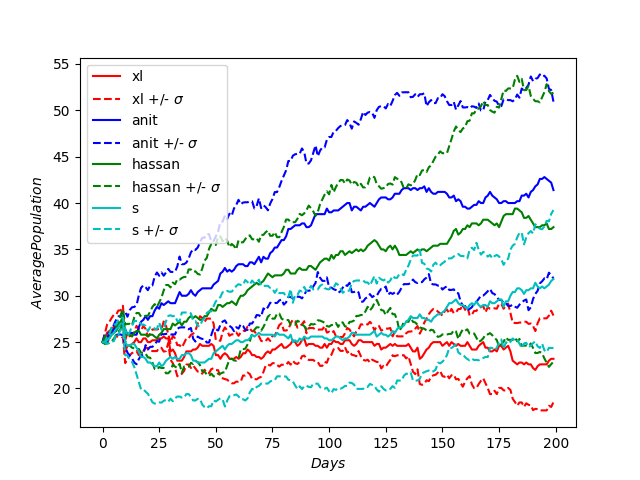
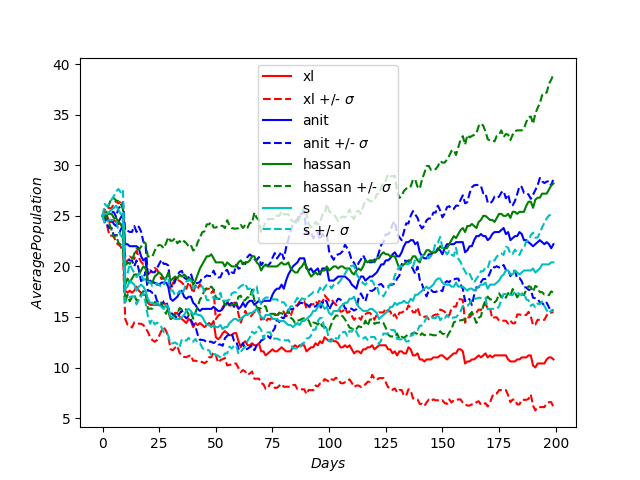
Fee hurt profit open channels, private nodes

diff --git a/src/attachment_strategies.py b/src/attachment_strategies.py
@@ -4,14 +4,18 @@ import rebalancing_strategies
 import numpy
 
 
-def create_channel(node, destination):
+def create_channel(node, destination, public):
 
-	base, prop = price_strategies.get_price_by_strategy(node['price_strategy'], path=node["price_model"])
+	if not node["public"]:
+		base = 100000000
+		prop = 100000000
+	else:
+		base, prop = price_strategies.get_price_by_strategy(node['price_strategy'], path=node["price_model"])
 
 	return {
 		'base_fee_millisatoshi': base,
 		'satoshis': node['allocation_strategy'],
-		'public': True,
+		'public': public,
 		'destination': destination,
 		'source': node['nodeid'],
 		'fee_per_millionth': prop,
@@ -40,14 +44,14 @@ def barabasi_albert(g, n, m, env):
 			random_strategy(g, n, m, env)
 			return False
 
-		targets = [i[0] for i in random.sample(g.edges, m)]
+		targets = [i[0] for i in random.sample([k for k in g.edges if g.edges[k]["public"]], m)]
 
 		g.add_node(n["nodeid"], **n)
 
-		channels = [create_channel(n, target_id) for target_id in targets]
+		channels = [create_channel(n, target_id, n['public']) for target_id in targets]
 		g.add_edges_from(zip([n["nodeid"]] * m, targets, channels))
 
-		channels = [create_channel(g.nodes[target_id], n['nodeid']) for target_id in targets]
+		channels = [create_channel(g.nodes[target_id], n['nodeid'], n['public']) for target_id in targets]
 		g.add_edges_from(zip(targets, [n["nodeid"]] * m, channels))
 
 		for s in range(m):
@@ -61,14 +65,14 @@ def random_strategy(g, n, m, env):
 	if m >= len(g.nodes):
 		targets = g.nodes()
 	else:
-		targets = random.sample(g.nodes(), m)
+		targets = random.sample([k for k in g.nodes() if g.nodes[k]["public"]], m)
 
 	g.add_node(n["nodeid"], **n)
 
-	channels = [create_channel(n, target_id) for target_id in targets]
+	channels = [create_channel(n, target_id, n['public']) for target_id in targets]
 	g.add_edges_from(zip([n["nodeid"]] * m, targets, channels))
 
-	channels = [create_channel(g.nodes[target_id], n['nodeid']) for target_id in targets]
+	channels = [create_channel(g.nodes[target_id], n['nodeid'], n['public']) for target_id in targets]
 	g.add_edges_from(zip(targets, [n["nodeid"]] * m, channels))
 
 	for s in range(m):
@@ -83,16 +87,16 @@ def hassan_islam_haque(g, n, m, env):
 		random_strategy(g, n, m, env)
 		return False
 
-	neighbor = [i[0] for i in random.sample(g.edges, m)]
+	neighbor = [i[0] for i in random.sample([k for k in g.edges if g.edges[k]["public"]], m)]
 
 	g.add_node(n["nodeid"], **n)
 
-	targets = [random.sample(list(g.successors(nk)), 1)[0] for nk in neighbor]
+	targets = [random.sample([k for k in g.successors(nk) if g.nodes[k]["public"]], 1)[0] for nk in neighbor]
 
-	channels = [create_channel(n, target_id) for target_id in targets]
+	channels = [create_channel(n, target_id, n['public']) for target_id in targets]
 	g.add_edges_from(zip([n["nodeid"]] * m, targets, channels))
 
-	channels = [create_channel(g.nodes[target_id], n['nodeid']) for target_id in targets]
+	channels = [create_channel(g.nodes[target_id], n['nodeid'], n['public']) for target_id in targets]
 	g.add_edges_from(zip(targets, [n["nodeid"]] * m, channels))
 
 	for s in range(m):
@@ -101,25 +105,26 @@ def hassan_islam_haque(g, n, m, env):
 	return True
 
 
-def inverse_barabasi_albert(g, n, m, env):  # TODO how the fuck is this done simple without
+def inverse_barabasi_albert(g, n, m, env):
 
 	if m >= len(g.edges):
 		random_strategy(g, n, m, env)
 		return False
 
-	sum = 0
+	sum_n = 0
 	for new in g.nodes:
-		sum += 1 / len(list(g.edges(new)))
+		if g.nodes[new]["public"] and len(list(g.edges(new))) != 0:
+			sum_n += 1 / len(list(g.edges(new)))
 
-	targets = [i for i in numpy.random.choice(list(g.nodes), m,
-											p=[1/len(list(g.edges(new)))/sum for new in g.nodes])]
+	targets = [i for i in numpy.random.choice([k for k in g.nodes if g.nodes[k]["public"] and len(list(g.edges(k))) != 0], m,
+											p=[1/len(list(g.edges(new)))/sum_n for new in g.nodes if g.nodes[new]["public"] and len(list(g.edges(new))) != 0])]
 
 	g.add_node(n["nodeid"], **n)
 
-	channels = [create_channel(n, target_id) for target_id in targets]
+	channels = [create_channel(n, target_id, n['public']) for target_id in targets]
 	g.add_edges_from(zip([n["nodeid"]] * m, targets, channels))
 
-	channels = [create_channel(g.nodes[target_id], n['nodeid']) for target_id in targets]
+	channels = [create_channel(g.nodes[target_id], n['nodeid'], n['public']) for target_id in targets]
 	g.add_edges_from(zip(targets, [n["nodeid"]] * m, channels))
 
 	for s in range(m):
@@ -147,7 +152,7 @@ def close_channel(g, f, s):
 	return True
 
 
-def manage_channels(g, env):
+def manage_channels(g, env, day):
 	"""
 	Add different strategies here.
 	First only close and open
@@ -172,8 +177,14 @@ def manage_channels(g, env):
 	for n in g.nodes:
 		while g.nodes[n]["funding"] > (2*env['environment']['fee'] + g.nodes[n]["allocation_strategy"]):
 			switch(g.nodes[n]['attachment_strategy'])(g, g.nodes[n], 1, env)
+			remove_profit(g, n, 2*env['environment']['fee'], day)
 
 	return True
+
+
+def remove_profit(g, node, fee, day):
+	g.nodes[node]['profits'][day % 10] -= fee
+	g.nodes[node]['total_profits'] -= fee
 
 
 def switch(policy):

diff --git a/src/simulation.py b/src/simulation.py
@@ -15,7 +15,7 @@ import routing
 from collections import OrderedDict
 
 
-def create_node(settings, immunity):
+def create_node(settings, immunity, public=True):
 	rand_id = '%066x' % random.randrange(16 ** 66)
 
 	profit = [settings["funding_strategy"] for n in range(immunity)]
@@ -47,7 +47,8 @@ def create_node(settings, immunity):
 		"base_fee": random.randint(10, 1501),
 		"fee_per_millionth": random.randint(1, 100),
 		"funding": settings["funding_strategy"],
-		"original_funding": settings["funding_strategy"]
+		"original_funding": settings["funding_strategy"],
+		"public": public
 	}
 
 
@@ -88,7 +89,7 @@ def simulate(env):
 
 		network_probability_node_creation(g, env)
 		check_for_bankruptcy(g, env)
-		attachment.manage_channels(g, env)
+		attachment.manage_channels(g, env, day)
 		rebalance.rebalance_channels(g, day)
 
 	print_profit_table(g, env)
@@ -120,13 +121,19 @@ def build_environment(env, g):
 			attachment.attach(g, selected, 5, env)
 			nodes.remove(selected)
 
+	for n in env['private_nodes']:
+		for i in range(int(env['environment']['initial_nodes'] * n['initial_distribution'])):
+			node = create_node(n, env['environment']['immunity_period'], public=False)
+			attachment.attach(g, node, 5, env)
+
 	return True
 
 
 def add_survival_history(g, history, day):
 
 	for n in g.nodes:
-		history[g.nodes[n]['name']][day] += 1
+		if g.nodes[n]["public"]:
+			history[g.nodes[n]['name']][day] += 1
 
 
 def route_payments_all_to_all(g, day):
@@ -202,16 +209,34 @@ def network_probability_node_creation(g, env):
 	for node in env["routing_nodes"]:
 		nodes[node["name"]] = 0
 
+	private = OrderedDict()
+	for node in env["private_nodes"]:
+		private[node["name"]] = 0
+
+	public_nodes = 0
 	for n in g.nodes:
-		nodes[g.nodes[n]['name']] += 1
+		if g.nodes[n]["public"]:
+			nodes[g.nodes[n]['name']] += 1
+			public_nodes += 1
+		else:
+			private[g.nodes[n]['name']] += 1
 
 	for node in env["routing_nodes"]:
-		nodes[node["name"]] = nodes[node["name"]] / len(g.nodes)
+		nodes[node["name"]] = nodes[node["name"]] / public_nodes
 
 	settings = numpy.random.choice(env["routing_nodes"],  # Verify this works
 								p=list(nodes.values()))
+
 	node = create_node(settings, env["environment"]["immunity_period"])
 	attachment.attach(g, node, 5, env)
+
+	for n in range(env["environment"]["changed_private_per_step"]):
+		node = create_node(numpy.random.choice(env["private_nodes"], p=[k["initial_distribution"] for k in env["private_nodes"]]), env['environment']['immunity_period'], public=False)
+		attachment.attach(g, node, 5, env)
+
+	rm = numpy.random.choice(g.nodes, env["environment"]["changed_private_per_step"], replace=False)
+	for r in rm:
+		g.remove_node(r)  # TODO NEED PAY BACK CHANNELS
 
 
 def reset_day(g, day):
@@ -224,18 +249,18 @@ def check_for_bankruptcy(g, env):
 	remove = []
 
 	for node in g.nodes:
-
-		if sum(g.nodes[node]['profits']) < g.nodes[node]['original_funding'] / 2 + g.nodes[node]['original_funding'] \
-				* env["environment"]["risk_premium"] / 36.5 + \
-				g.nodes[node]['original_funding'] * env["environment"]["risk_premium"] / 36.5 + \
-				env["environment"]["operational_cost"] / 36.5:
-			print(g.nodes[node]['nodeid'][:10], " bankrupt with strategies: ",
-				g.nodes[node]['name'])
-			remove.append(node)
-			changed = True
+		if g.nodes[node]["public"]:
+			if sum(g.nodes[node]['profits']) < g.nodes[node]['original_funding'] / 2 + g.nodes[node]['original_funding'] \
+					* env["environment"]["risk_premium"] / 36.5 + \
+					g.nodes[node]['original_funding'] * env["environment"]["risk_premium"] / 36.5 + \
+					env["environment"]["operational_cost"] / 36.5:
+				print(g.nodes[node]['nodeid'][:10], " bankrupt with strategies: ",
+					g.nodes[node]['name'])
+				remove.append(node)
+				changed = True
 	if changed:
 		for n in remove:
-			g.remove_node(n)
+			g.remove_node(n)  # TODO NEED PAY BACK CHANNELS
 
 
 def print_alive_nodes(g, env):
@@ -244,7 +269,8 @@ def print_alive_nodes(g, env):
 		nodes[node["name"]] = 0
 
 	for n in g.nodes:
-		nodes[g.nodes[n]['name']] += 1
+		if g.nodes[n]["public"]:
+			nodes[g.nodes[n]['name']] += 1
 
 	s = ""
 	for key in nodes:
@@ -256,7 +282,8 @@ def print_alive_nodes(g, env):
 def print_profit_table(g, env):
 	sorted_profit = []
 	for n in g.nodes:
-		sorted_profit.append(g.nodes[n])
+		if g.nodes[n]["public"]:
+			sorted_profit.append(g.nodes[n])
 
 	sorted_profit = sorted(sorted_profit, key=lambda k: k['total_profits'])
 
@@ -265,8 +292,8 @@ def print_profit_table(g, env):
 		nodes[node["name"]] = 0
 
 	for n in sorted_profit:
-		print(n['name'], " ", n['total_profits'])
-		nodes[n['name']] += n['total_profits']
+			print(n['name'], " ", n['total_profits'])
+			nodes[n['name']] += n['total_profits']
 
 	s = ""
 	for key in nodes:

diff --git a/src/rebalancing_strategies.py b/src/rebalancing_strategies.py
@@ -5,11 +5,8 @@ import simulation
 
 def rebalance_channels(g, day):
 	"""
-	Add different strategies here.
-	First only close and open
+	Rebalance channels by finding a cycle route to oneself.
 	"""
-	# Channel close
-	close = []
 
 	for n in g.nodes:
 		if g.nodes[n]["rebalance_strategy"]["name"] == "sanity_check":
@@ -25,15 +22,24 @@ def rebalance_channels(g, day):
 				else:
 					score, size = get_edge_bias_value(g, cycle, cap, g.nodes[n]["rebalance_strategy"]["scale"])
 
+				if score <= 0:
+					continue
+
 				fee = get_fee(g, cycle, size)
-				print((size * 2 / fee))
+
 				if (size * 2 / fee) > g.nodes[n]["rebalance_strategy"]["ratio"]:
 					print("HAPPENED")
 					simulation.offset_liquidity(g, cycle, size)
 					cycle.remove(source)
 					simulation.pay_routers(g, cycle, day, size)
+					remove_fee(g, n, fee, day)
 
 	return True
+
+
+def remove_profit(g, node, fee, day):
+	g.nodes[node]['profits'][day % 10] -= fee
+	g.nodes[node]['total_profits'] -= fee
 
 
 def get_capacity(g, cycle):
@@ -122,7 +128,7 @@ def get_fee(g, route, size):
 	fee = 0
 	for n in route:
 		if previous is not None:
-			fee += (g.get_edge_data(previous, n)["base_fee_millisatoshi"]) + (g.get_edge_data(previous, n)["fee_per_millionth"] * size)
+			fee = fee + g.get_edge_data(previous, n)["base_fee_millisatoshi"] + (g.get_edge_data(previous, n)["fee_per_millionth"]*size)
 		previous = n
 
 	return fee
